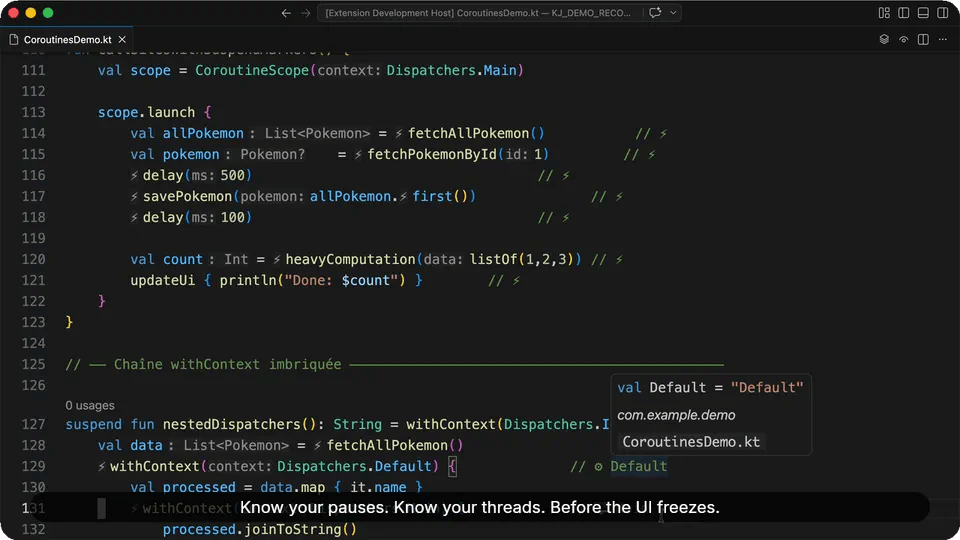
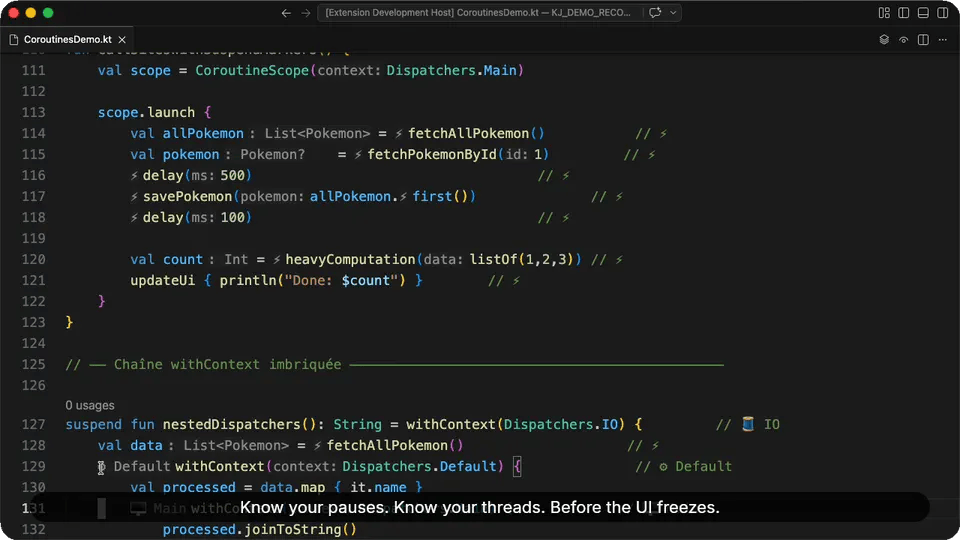
chore(release): record suppress-hover demo + refresh suspend-call-marker
New manual .demo.ts for the @Suppress-on-hover feature; re-recorded
suspend-call-marker so the shipped webp actually shows the dispatcher
badges v1.16 adds (the earlier recording pre-dated the feature).

Also stages media/whats-new.json for v1.16.0 with the three new
highlights (Dispatchers, @Suppress, Cmd+Alt+←/→) and the auto-linked
demo webps (suspend-call-marker.webp → Dispatchers,
suppress-hover.webp → @Suppress). The release `.publish` will preserve
these hand-wired media fields through merge-preserve at publish time.

diff --git a/scripts/demo/demos/suppress-hover.demo.ts b/scripts/demo/demos/suppress-hover.demo.ts
@@ -1,0 +1,74 @@
+import { Stage } from '../lib/stage';
+
+/**
+ * Demo: @Suppress / @SuppressLint / @SuppressWarnings — hover any ID
+ * and see a plain-English explanation of what the warning means.
+ *
+ * Why it matters: `@Suppress("UNCHECKED_CAST")` scattered through a
+ * codebase is often copy-pasted without anyone remembering what each
+ * one suppresses. Kotlin Jump now ships a dictionary of ~40 common
+ * Kotlin / Android Lint / javac suppression IDs with short explanations
+ * and doc links — hover the string, see the meaning.
+ *
+ * Fixture: `AnnotationsDemo.kt` already contains a variety of
+ * `@Suppress(...)` patterns (Kotlin IDs, multi-arg lists, nested class
+ * members, `@SuppressLint` too). No extra setup needed.
+ *
+ * The actual hover tooltip only appears on mouse hover — in a scripted
+ * recording we simulate it with `calloutAt` anchors that show the text
+ * at the position where the hover would pop up. A real user hovering
+ * in VS Code sees the full markdown with description + doc link.
+ *
+ * ~12 s.
+ */
+export default async function record(stage: Stage): Promise<void> {
+  await stage.waitForIndexReady();
+
+  // ── Beat 1: land on a typical @Suppress ─────────────────────────────
+  // AnnotationsDemo.kt line 39 (0-idx) = 40 (1-idx):
+  //   `@Suppress("UNCHECKED_CAST")`
+  await stage.openFile(
+    'src/main/kotlin/com/example/demo/AnnotationsDemo.kt',
+    { line: 38, column: 10 },
+  );
+  await stage.dwellOn({ line: 38, column: 10 }, 1200);
+  await stage.caption('Every `@Suppress` silences a specific warning. Remember what?', {
+    duration: 2600,
+  });
+
+  // ── Beat 2: the hover appears with the description ──────────────────
+  // Simulate the hover with a calloutAt anchor: the renderer draws the
+  // label next to the line, just like the hover tooltip would appear
+  // above the cursor.
+  void stage.calloutAt(
+    { line: 38, column: 34 },
+    'UNCHECKED_CAST — Cast to a generic type the runtime cannot verify',
+    2800,
+  );
+  await stage.caption('Hover the ID. Plain-English description + doc link.', {
+    duration: 2600,
+  });
+
+  // ── Beat 3: multi-arg @Suppress — every ID is hoverable ─────────────
+  // Line 57 (0-idx) = 58 (1-idx):
+  //   `@Suppress("UNCHECKED_CAST", "unused", "DEPRECATION")`
+  // Each of the three strings is independently hoverable.
+  await stage.scrollThrough({
+    fromLine:   38,
+    toLine:     57,
+    column:     4,
+    durationMs: 1400,
+  });
+  await stage.dwellOn({ line: 57, column: 4 }, 800);
+  await stage.caption('Multi-arg? Every ID is hoverable on its own.', {
+    duration: 2400,
+  });
+
+  // ── Beat 4: Android Lint IDs work too ───────────────────────────────
+  // Note: the fixture has `@Suppress` examples with Kotlin IDs. In real
+  // Android code, `@SuppressLint("MissingPermission")` / `("NewApi")`
+  // resolve through the same provider to the Android Lint category.
+  await stage.caption('Works for Kotlin, Android Lint, and `@SuppressWarnings` too.', {
+    duration: 2600,
+  });
+}
